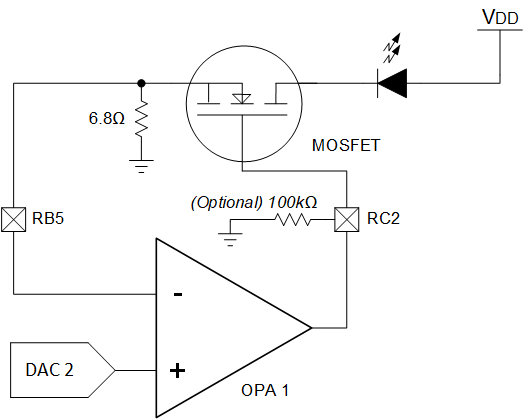
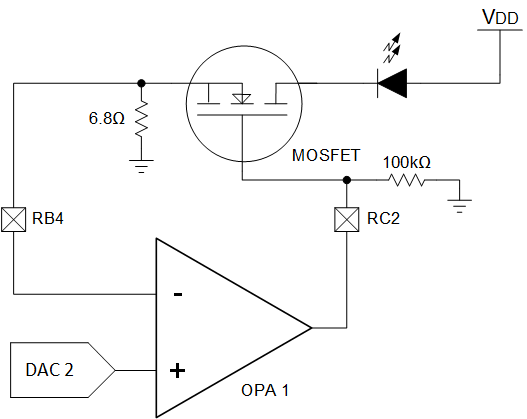
MPAE-3318: readme update + fixed Schematic

diff --git a/pic18f16q41-linear-led-current-regulator.X/main.c b/pic18f16q41-linear-led-current-regulator.X/main.c
@@ -43,7 +43,7 @@
 
 #include "mcc_generated_files/mcc.h"
 
-//Description
+// State machine for making the LED "breathe"
 void LED_breathingStateMachine(void)
 {
     static char state = 0;

diff --git a/readme.md b/readme.md
@@ -24,9 +24,9 @@ The following documents and resources will be published soon.
 
 ## External Parts Required
 
-* 5.6 ohm resistor (current shunt)
-* *(Optional)* 100k resistor
-    * This resistor discharges the capacitor passively and ensures the MOSFET remains off if the part is off or the pin is tri-stated. For this example, it is not needed.
+* 6.8 ohm resistor (current shunt)
+* 100k resistor
+    * This resistor ensures the MOSFET remains off if the part is off or not configured.
 * N-Type MOSFET (rec. signal transistor, such as a 2N7000A)
 * LED(s)
 
